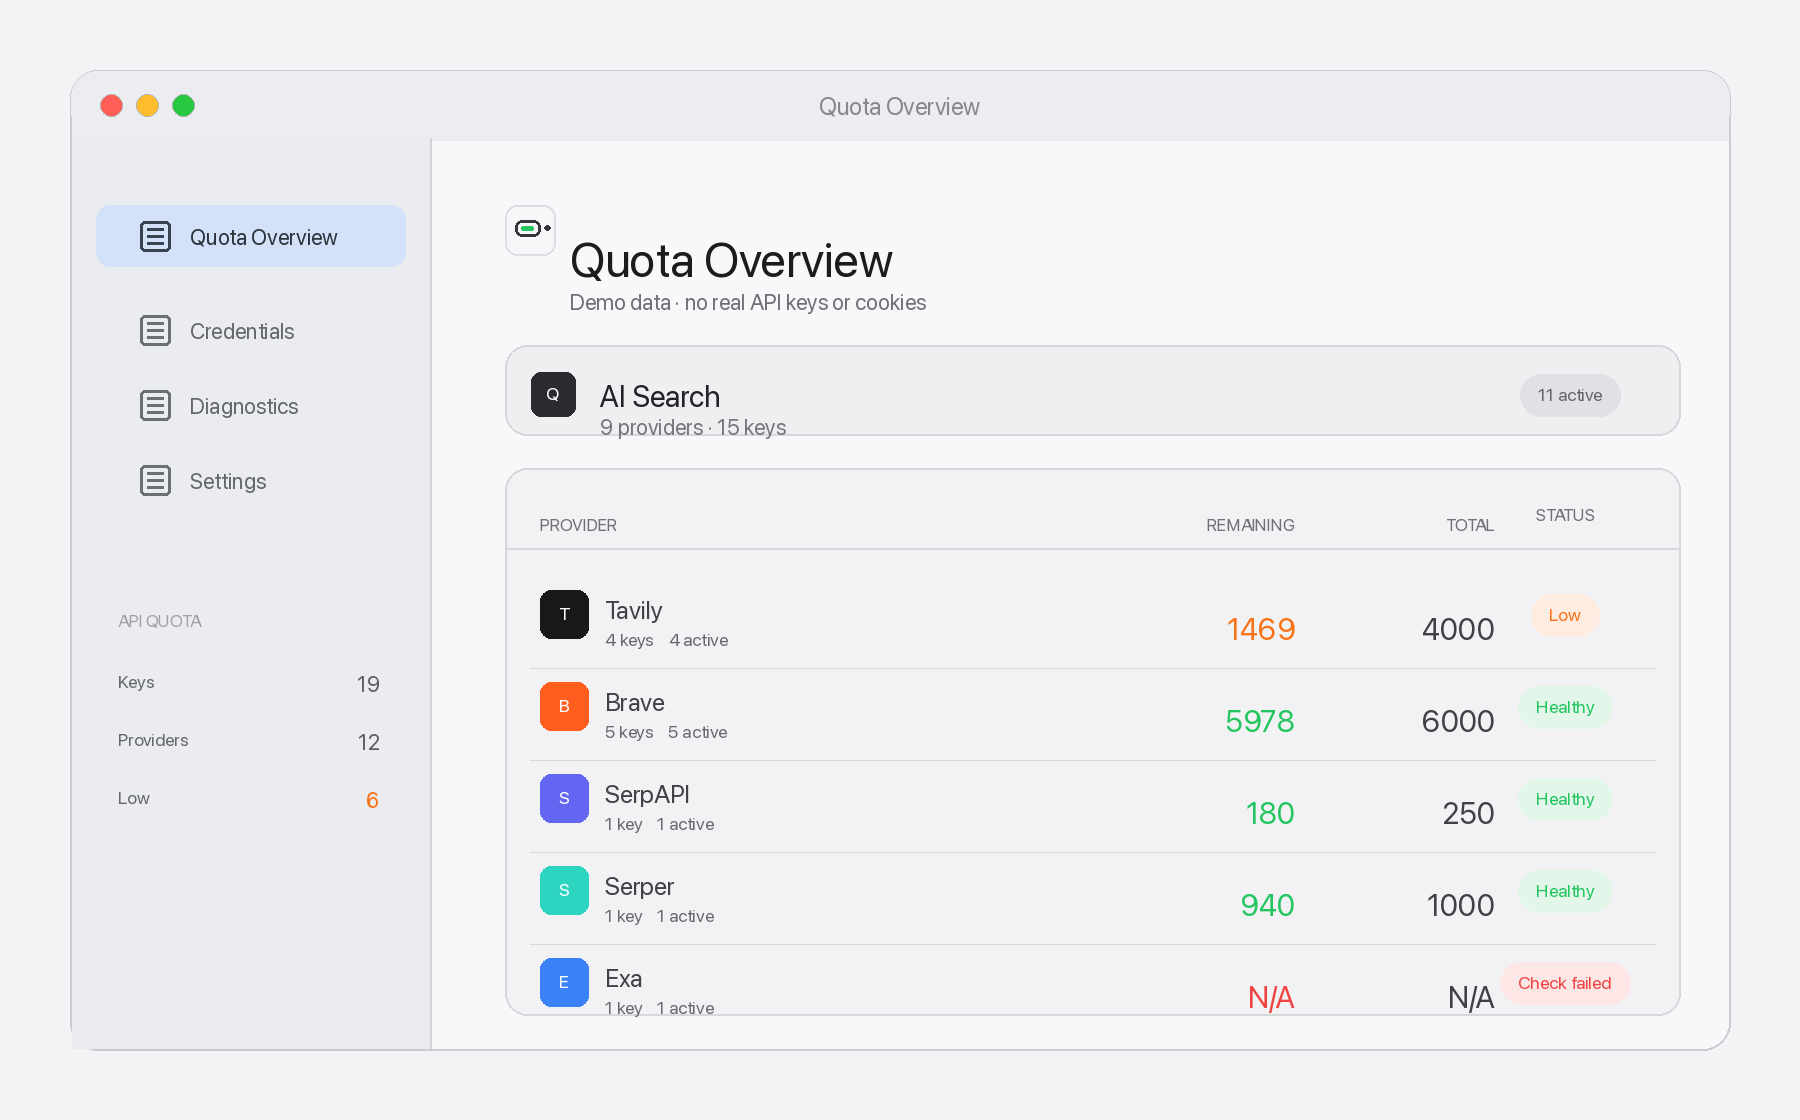
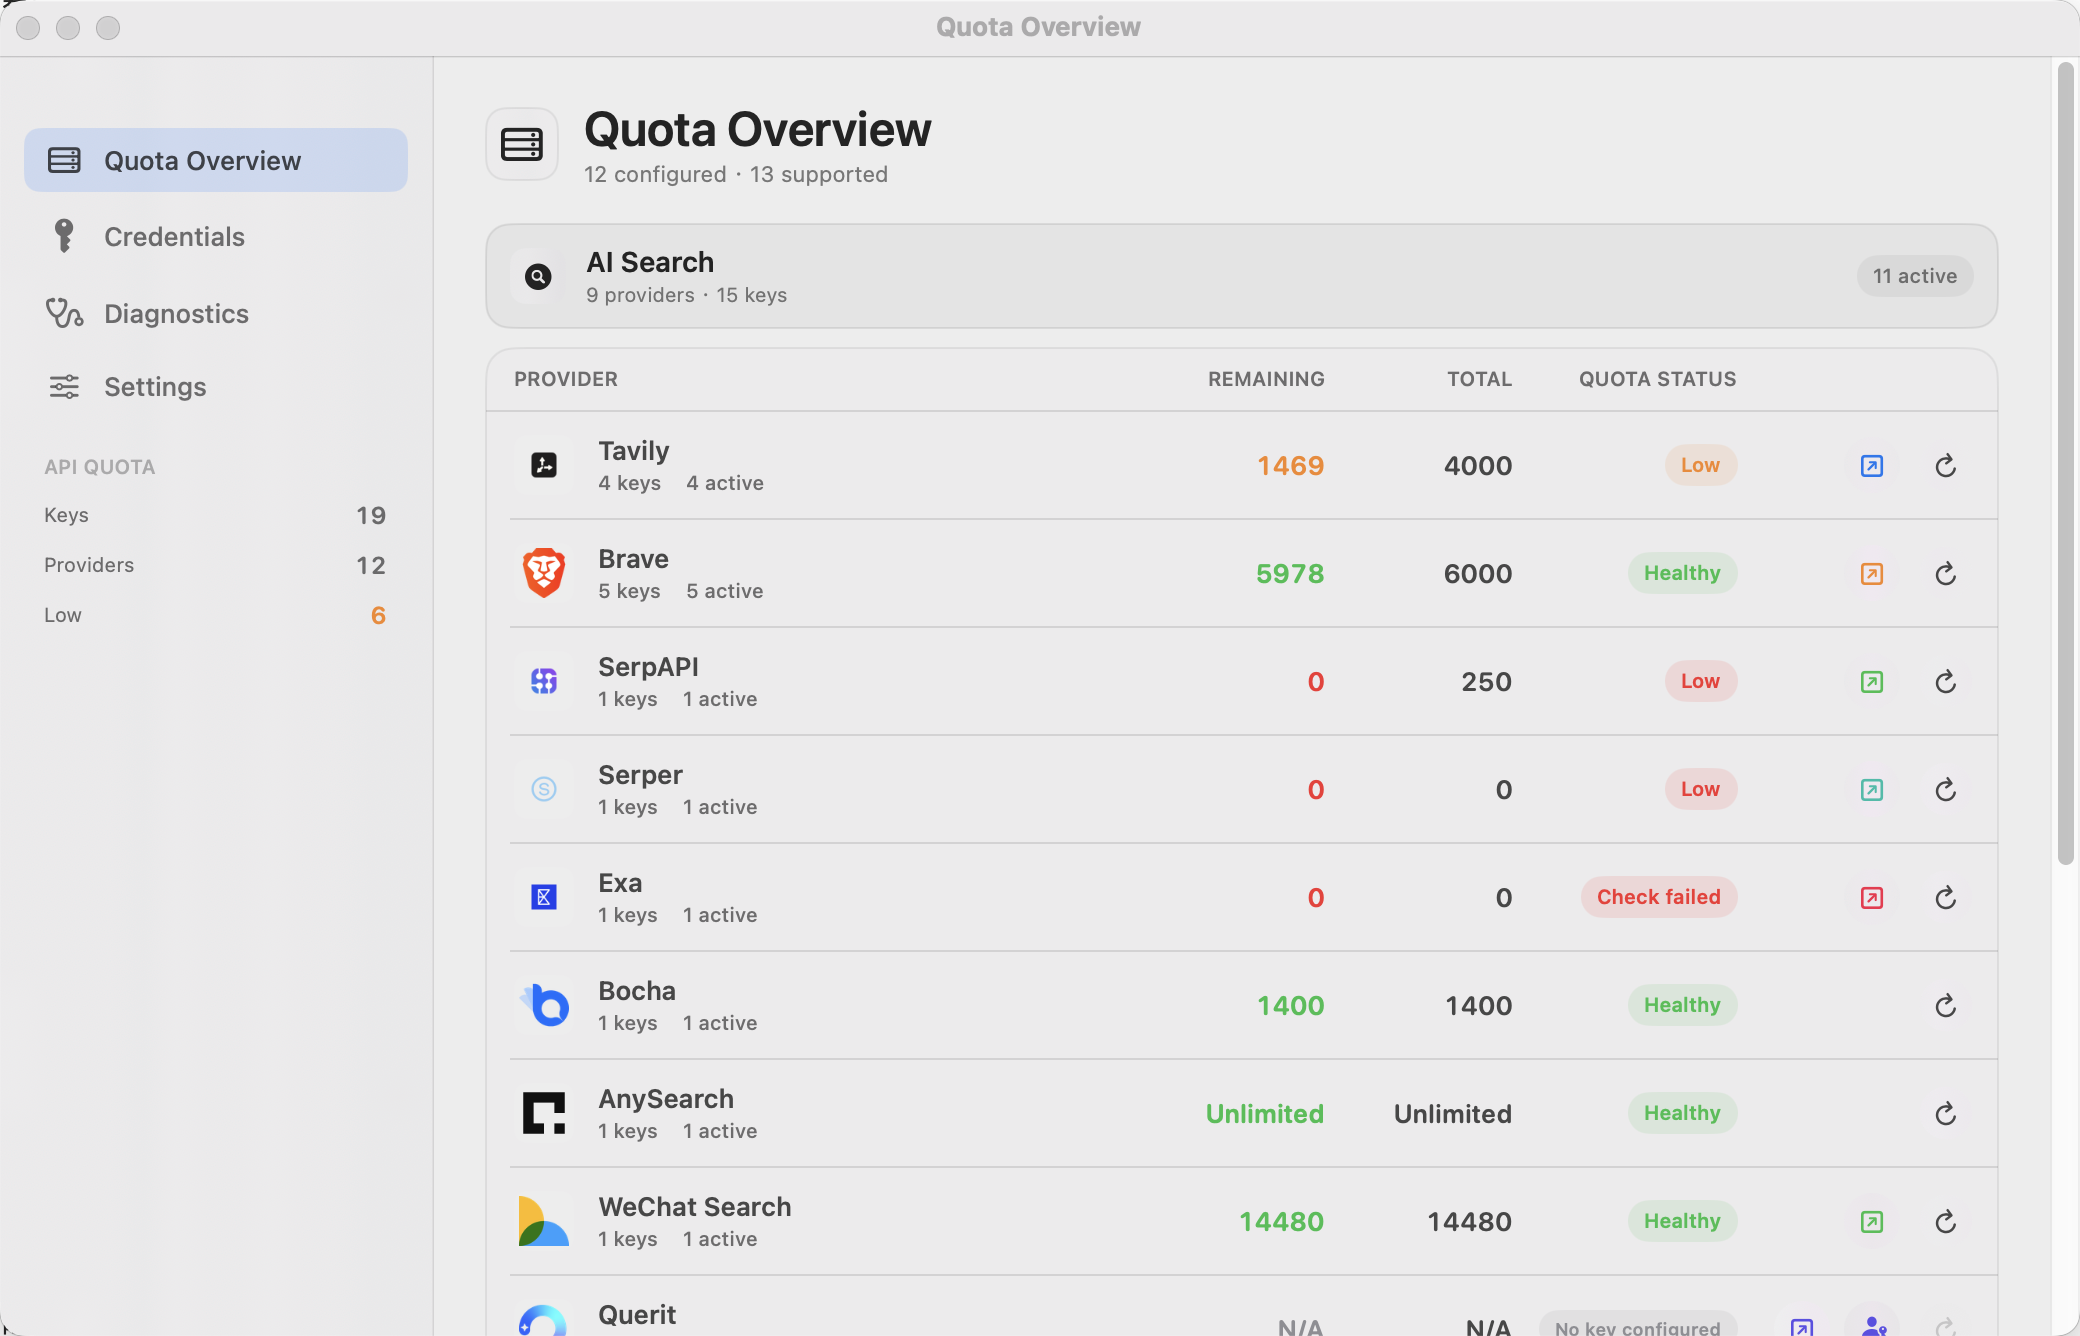
docs: use real masked README screenshots

diff --git a/README.en.md b/README.en.md
@@ -25,7 +25,7 @@ See [TODO / Roadmap](./TODO.en.md) for the next development plan.
 </p>
 
 <p align="center">
-  <em>The main window summarizes remaining quota, total quota, and health status by provider. Screenshots use sanitized demo data.</em>
+  <em>The main window summarizes remaining quota, total quota, and health status by provider. Screenshots are captured from the running app, with credentials masked by QuotaBar.</em>
 </p>
 
 <p align="center">

diff --git a/README.md b/README.md
@@ -25,7 +25,7 @@ QuotaBar 是一个 macOS 状态栏应用，用来观察搜索 API 与 LLM coding
 </p>
 
 <p align="center">
-  <em>主窗口以 provider 为单位展示剩余额度、总量和健康状态；截图使用脱敏演示数据。</em>
+  <em>主窗口以 provider 为单位展示剩余额度、总量和健康状态；截图来自真实运行画面，密钥由应用自动打码。</em>
 </p>
 
 <p align="center">